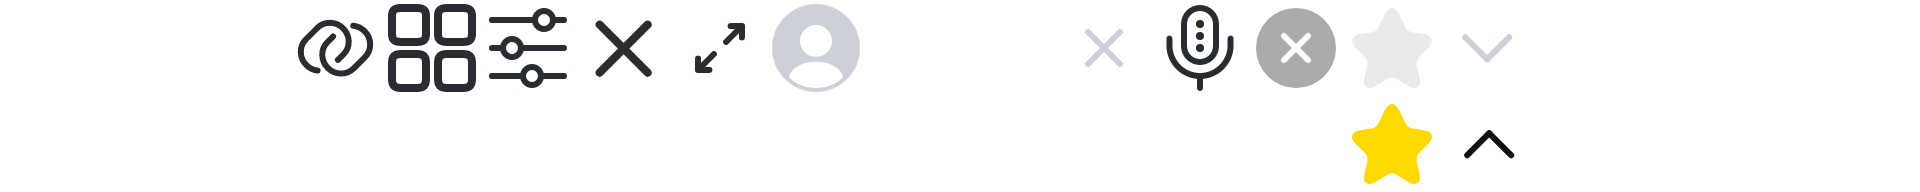
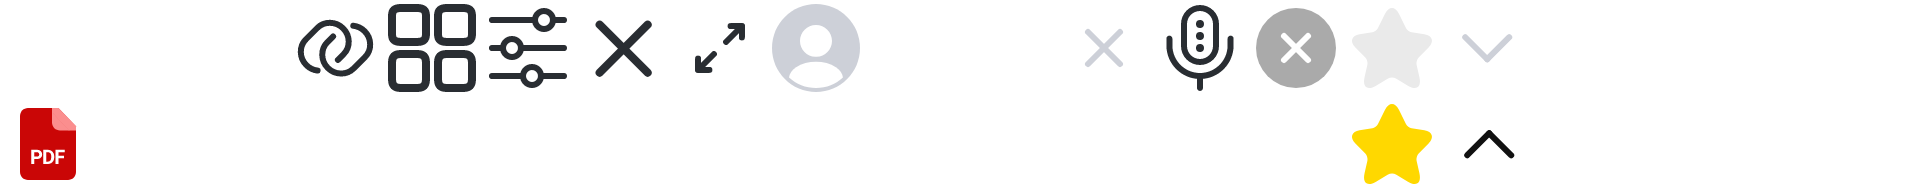
UI-SJN-83-001U 등록

Changed region(s): [[0.0, 0.5625, 0.0625, 0.9375]]

diff --git a/html/home/UI-SJN-83-001U.html b/html/home/UI-SJN-83-001U.html
@@ -1,0 +1,236 @@
+<!DOCTYPE HTML>
+<html lang="ko">
+<head>
+	<meta charset="utf-8" />
+	<script src="../include/head.js"></script>
+</head>
+
+<body>
+<div id="root">
+	<div class="container">
+		<!-- 공통: 서브 헤더 -->
+		<script src="../include/header_sub.js"></script>
+		<!-- //공통: 서브 헤더 -->
+
+		<!-- 본문 -->
+		<main class="contents mypage"> <!-- [내정보 Class] mypage-->
+			<h2 class="visible"><div class="headerClone">개인정보처리방침 안내문</div></h2> <!-- [헤더에 넣어줄 제목] -->
+			
+			<div class="mypageWrap">
+				<div class="explain-default">
+					<div class="approval">
+						<p class="text">세종특별자치시는 개인정보보호법 등 관련 법률상의 개인정보보호 규정을 준수하여 정보주체의 보호 및 권익을 보호하고, 개인정보와 관련하여 이용자의 고층을 신속하고 원활하게 처리할 수 있도록 다음과 같은 개인정보 처리방침을 두고 있습니다. 이 방침은 별도의 설명이 없는 한 세종특별자치시에서 처리하는 모든 개인정보파일에 적용됩니다.</p>
+					</div>
+				</div>
+
+				<ol class="items-term">
+					<li>
+						<h3>제1조. 개인정보의 처리목적, 처리 및 보유기간, 처리항목</h3>
+						<div class="paragraphGroup">
+							<p>세종특별자치시가 ｢개인정보보호법｣ 제32조에 따라 등록․공개하는 개인정보파일의 처리목적 및 보유기간, 처리하는 개인정보 항목의 조회 방법은 다음과 같습니다.</p>
+							<p><a href="#" class="link"><span>개인정보파일 목록검색 바로가기</span></a></p>
+							<p>개인정보보호종합지원포털(http://www.privacy.go.kr) -&gt; 개인정보민원 -&gt; 개인정보 열람등 요구 -&gt; 개인정보파일 목록 검색 -&gt; 기관명에 “세종특별자치시” 입력 -&gt; 검색</p>
+						</div>
+					</li>
+					<li>
+						<h3>제 2조. 개인정보의 제3자 제공</h3>
+						<ol>
+							<li>
+								<p>1. 세종특별자치시는 다음과 같이 개인정보를 목적 외 이용 및 제3자에게 제공하고 있습니다.</p>
+								<a href="#" class="download" download="download"><span>개인정보 목적 외 이용 및 제3자 제공 현황</span></a>
+							</li>
+							<li>
+								2.세종특별자치시는 정보주체의 개인정보를 수집·이용 목적으로 명시한 범위 내에서 처리하며, 다음 각 호의 경우를 제외하고는 정보주체의 사전 동의 없이는 본래의 목적 범위를 초과하여 처리하거나 제3자에게 제공하지 않습니다.
+								<span class="sub">“정보주체”란 처리되는 정보에 의하여 알아볼 수 있는 사람으로서 그 정보의 주체가 되는 사람을 말한다.</span>
+								<ul>
+									<li>정보주체로부터 별도의 동의를 받는 경우</li>
+									<li>법률에 특별한 규정이 있는 경우</li>
+									<li>정보주체 또는 법정대리인이 의사표시를 할 수 없는 상태에 있거나, 주소불명 등으로 사전 동의를 받을 수 없는 경우로서, 명백히 정보주체 또는 제3자의 급박한 생명, 신체, 재산의 이익을 위하여 필요하다고 인정되는 경우</li>
+									<li>통계작성 및 학술연구 등의 목적을 위하여 필요한 경우로서, 특정 개인을 알아 볼 수 없는 형태로 개인정보를 제공하는 경우</li>
+									<li>개인정보를 목적 외의 용도로 이용하거나, 이를 제3자에게 제공하지 아니하면 다른 법률에서 정하는 소관 업무를 수행할 수 없는 경우로서, 보호위원회의 심의·의결을 거친 경우</li>
+									<li>조약, 그 밖의 국제협정의 이행을 위하여 외국정보 또는 국제기구에 제공하기 위하여 필요한 경우</li>
+									<li>범죄의 수사와 공소의 제기 및 유지를 위하여 필요한 경우</li>
+									<li>법원의 재판업무 수행을 위하여 필요한 경우</li>
+									<li>형 및 감호, 보호처분의 집행을 위하여 필요한 경우</li>
+								</ul>
+							</li>
+						</ol>
+					</li>
+					<li>
+						<h3>제3조. 개인정보처리의 위탁</h3>
+						<ol>
+							<li>
+								<p>1. 세종특별자치시는 원활한 개인정보 업무처리를 위하여 다음과 같이 개인정보처리업무를 위탁하고 있습니다.</p>
+								<a href="#" class="download" download="download"><span>개인정보처리 위탁업무 현황</span></a>
+							</li>
+							<li><p>2. 세종특별자치시는 위탁계약 체결 시 개인정보보호법 제26조에 따라 위탁업무 수행 목적 외 개인정보의 처리 금지, 개인정보의 관리적·기술적 보호조치, 재 위탁 제한, 수탁자에 대한 관리·감독, 손해배상 등 책임에 관한 사항을 계약서에 명시하고, 수탁자가 개인정보를 안전하게 처리하는지를 감독하고 있습니다.</p></li>
+						</ol>
+					</li>
+					<li>
+						<h3>제4조. 정보주체의 권리·의무 및 그 행사방법에 관한 사항</h3>
+						<ol>
+							<li>
+								<p>1. 정보주체(만14세 미만인 경우에는 법정대리인을 말함)는 언제든지 다음 각 호의 개인정보보호 관련 권리를 행사할 수 있습니다.</p>
+								<ul>
+									<li>개인정보 열람요구</li>
+									<li>오류 등이 있을 경우 정정 요구</li>
+									<li>삭제요구</li>
+									<li>처리정지 요구</li>
+								</ul>
+							</li>
+							<li><p>2. 제1항에 따른 권리 행사는 개인정보보호법 시행규칙 [별지 제8호 서식]에 따라 작성 후 서면, 전자우편, 모사전송(FAX) 등을 통하여 세종특별자치시(해당부서)로 요구하실 수 있으며, 세종특별자치시에서는 10일 이내에 조치를 통지하겠습니다.</p></li>
+							<li><p>3. 정보주체가 개인정보의 오류 등에 대한 정정 또는 삭제를 요구한 경우에는 정정 또는 삭제를 완료할 때까지 당해 개인정보를 이용하거나 제공하지 않습니다.</p></li>
+							<li><p>4. 제1항에 따른 권리 행사는 정보주체의 법정대리인이나 위임을 받은 자 등 대리인을 통하여 하실 수 있습니다. 이 경우 개인정보보호법 시행규칙 [별지 제11호 서식]에 따른 위임장을 제출하셔야 합니다.</p></li>
+							<li><p>5. 개인정보 열람 및 처리정지 요구는 개인정보보호법 제35조 제5항, 제37조 제2항에 의하여 정보주체의 권리가 제한 될 수 있습니다.</p></li>
+							<li><p>6. 개인정보의 정정 및 삭제 요구는 다른 법령에서 그 개인정보가 수집 대상으로 명시되어 있는 경우에는 그 삭제를 요구할 수 없습니다.</p></li>
+							<li><p>7. 정보주체 권리에 따른 열람의 요구, 정정·삭제의 요구, 처리정지의 요구 시 열람 등 요구를 한 자가 본인이거나 정당한 대리인인지를 확인합니다.</p></li>
+							<li>
+								<p>8. 개인정보 열람, 정정·삭제, 처리정지 청구는 아래와 같은 절차로 처리됩니다.</p>
+								<img src="../../public/image/home/sitemap_img01.png" alt="">
+							</li>
+							<li>
+								<p>9. 개인정보 열람 등 요구방법</p>
+								<span class="sub">개인정보보호 종합지원 포털(www.privacy.go.kr)을 통해 “온라인 신청” 또는 세종특별자치시(해당부서)를 통해 “오프라인 신청”하실 수 있습니다.</span>
+							</li>
+							<li><p>10. 정보주체 권리 행사에 대해 거절 등의 조치에 불복이 있는 경우에는 거절 등의 통지서를 받은 날로부터 30일 이내에 이의신청을 할 수 있으며, 통지서 내의 이의제기방법에 따라 제출하여야 합니다.</p></li>
+						</ol>
+					</li>
+					<li>
+						<h3>제5조. 개인정보의 파기</h3>
+						<div class="paragraphGroup">
+							<p>세종특별자치시는 원칙적으로 개인정보의 보유기간이 경과했거나 처리목적이 달성된 경우에는 지체 없이 해당 개인정보를 파기합니다. 다만, 다른 법령에 따라 보존하여야 하는 경우에는 그러하지 않을 수 있습니다. 파기의 절차, 기한 및 방법은 다음과 같습니다.</p>
+						</div>
+						<ol>
+							<li><p>1. 파기절차 : 보유기간이 경과했거나 처리목적이 달성된 후 내부방침 및 관련 법령에 따라 파기합니다.</p></li>
+							<li><p>2. 파기기한 : 개인정보의 보유기간이 경과된 경우 보유기간의 종료일로부터 5일 이내에, 개인정보의 처리 목적 달성 등 그 개인정보가 불필요하게 되었을 때에는 개인정보의 처리가 불필요한 것으로 인정되는 날로부터 5일 이내에 그 개인정보를 파기합니다.</p></li>
+							<li>
+								<p>3. 파기방법 : 세종특별자치시에서 처리하는 개인정보를 파기할 때에는 다음의 방법으로 파기합니다.</p>
+								<ul>
+									<li>전자적 파일 형태인 경우 : 복원이 불가능한 방법으로 영구 삭제</li>
+									<li>전자적 파일의 형태 외의 기록물, 인쇄물, 서면, 그 밖의 기록매체인 경우 : 파쇄 또는 소각</li>
+								</ul>
+							</li>
+						</ol>
+					</li>
+					<li>
+						<h3>제6조. 개인정보의 안전성 확보조치</h3>
+						<div class="paragraphGroup">
+							<p>세종특별자치시는 개인정보의 안전성 확보를 위해 다음과 같은 조치를 취하고 있습니다.</p>
+						</div>
+						<ol>
+							<li>
+								<p>1. 개인정보 취급자의 최소화 및 교육</p>
+								<span class="sub">개인정보 취급자는 필요한 인원에 한하여 지정·관리하고 있으며, 취급자를 대상으로 안전한 관리를 위한 교육을 실시하고 있습니다.</span>
+							</li>
+							<li>
+								<p>2. 개인정보에 대한 접근 제한</p>
+								<span class="sub">개인정보를 처리하는 개인정보처리시스템에 대한 접근통제를 위한 필요한 조치를 하고 있으며, 침입차단시스템을 이용하여 외부로부터의 무단접근을 통제하고 있습니다.</span>
+							</li>
+							<li>
+								<p>3. 접속기록의 보관</p>
+								<span class="sub">개인정보를 처리하는 개인정보처리시스템에 접속한 기록을 최소 6개월 이상 보관·관리하고 있습니다.</span>
+							</li>
+							<li>
+								<p>4. 개인정보의 암호화</p>
+								<span class="sub">개인정보는 암호화 등을 통해 안전하게 저장 및 관리되고 있습니다. 또한 중요한 데이터는 저장 및 전송 시 암호화하여 사용하는 등의 별도 보안기능을 사용하고 있습니다.</span>
+							</li>
+							<li>
+								<p>5. 보안장비 설치 및 주기적 점검·갱신</p>
+								<span class="sub">해킹이나 컴퓨터 바이러스 등에 의한 개인정보 유출 및 훼손을 막기 위하여 보안장비를 설치하고 주기적으로 갱신·점검하고 있습니다.</span>
+							</li>
+							<li>
+								<p>6. 비인가자에 대한 출입 통제</p>
+								<span class="sub">개인정보를 보관하고 있는 개인정보처리시스템의 물리적 보관 장소를 별도로 두고 이에 대해 출입통제 절차를 수립·운영하고 있습니다.</span>
+							</li>
+						</ol>
+					</li>
+					<li>
+						<h3>제7조. 개인정보 자동 수집 장치의 설치·운영 및 거부에 관한 사항</h3>
+						<ol>
+							<li><p>1. 세종특별자치시는 이용자에게 개별적인 맞춤서비스를 제공하기 위해 이용정보를 저장하고 수시로 불러오는 ‘쿠기(cookie)’를 사용합니다.</p></li>
+							<li>
+								<p>2. 쿠키는 웹사이트를 운영하는데 이용되는 서버(http)가 이용자의 컴퓨터 브라우저에게 보내는 소량의 정보이며, 이용자 컴퓨터(PC)의 하드디스크에 저장되기도 합니다.</p>
+								<ul>
+									<li>(쿠키의 사용목적) 이용자가 방문한 각 서비스와 웹사이트들에 대한 방문 및 이용형태, 인기검색어, 보안접속 여부 등을 파악하여 이용자에게 최적화된 정보를 제공하기 위해 사용됩니다.</li>
+									<li>(쿠키의 설치∙운영 및 거부) 이용하는 컴퓨터(PC)의 웹 브라우저 상단에 도구>인터넷 옵션>개인정보 메뉴의 옵션 설정을 통해 쿠키 저장을 거부할 수 있습니다.</li>
+									<li>쿠키 저장을 거부할 경우 맞춤형서비스 이용에 어려움이 발생할 수 있습니다.</li>
+								</ul>
+							</li>
+						</ol>
+					</li>
+					<li>
+						<h3>제8조. 권익침해 구제방법</h3>
+						<ol>
+							<li>
+								<p>1. 정보주체는 세종특별자치시 자체적인 개인정보 불만처리, 피해구제 결과에 만족하지 못하거나, 보다 자세한 도움이 필요할 경우, 아래의 기관에 대해 개인 정보 침해에 대한 피해구제, 상담 등을 문의하실 수 있습니다.</p>
+								<ul>
+									<li>개인정보 침해신고센터(한국인터넷진흥원 운영) : (국번없이) 118 (privacy.kisa.or.kr)</li>
+									<li>개인정보 분쟁조정위원회(국번없이) : 1833-6972 (www.kopico.go.kr)</li>
+									<li>대검찰청 사이버범죄수사단 : 02-3480-3573 (www.spo.go.kr)</li>
+									<li>경찰청 사이버안전국 : (국번없이) 182 (cyberbureau.police.go.kr)</li>
+								</ul>
+							</li>
+							<li>
+								<p>2. 또한, 개인정보의 열람, 정정·삭제, 처리정지 등에 대한 정보주체자의 요구에 대하여 공공기관의 장이 행한 처분 또는 부작위로 인하여 권리 또는 이익을 침해 받은 자는 행정심판법이 정하는 바에 따라 행정심판을 청구할 수 있습니다.</p>
+								<ul>
+									<li>중앙행정심판위원회: (국번없이) 110 (www.simpan.go.kr)</li>
+								</ul>
+							</li>
+						</ol>
+					</li>
+					<li>
+						<h3>제9조. 개인정보보호책임자</h3>
+						<div class="paragraphGroup">
+							<p>세종특별자치시는 개인정보 처리에 관한 업무를 총괄해서 책임지고, 개인정보 처리와 관련한 정보주체의 불만처리 및 피해구제 등을 위하여 아래와 같이 개인정보보호책임자를 지정하고 있습니다.</p>
+						</div>
+						<ol>
+							<li>
+								<p>1. 개인정보보호책임자</p>
+								<ul>
+									<li>성명 : 이용석</li>
+									<li>직책 : 기획조정실장</li>
+									<li>직급 : 고위공무원</li>
+									<li>연락처 : 044-300-2100</li>
+								</ul>
+							</li>
+							<li>
+								<p>2. 개인정보 보호 담당부서</p>
+								<ul>
+									<li>부서명 : 정보통계담당관</li>
+									<li>담당자 : 안윤기</li>
+									<li>연락처 : 044-300-2445</li>
+									<li>메 일 : ahn6258@korea.kr</li>
+									<li>팩 스 : 044-300-2439</li>
+								</ul>
+							</li>
+						</ol>
+					</li>
+					<li>
+						<h3>제10조. 개인정보 처리방침 변경</h3>
+						<div class="paragraphGroup">
+							<p>이 개인정보 처리방침은 2019. 2. 15.부터 적용됩니다.</p>
+							<p>이전의 개인정보 처리방침은 아래에서 확인하실 수 있습니다.</p>
+						</div>
+						<ul class="blackLink">
+							<li><a href="#" target="_blank">2012. 7. 1 ~ 2014. 1.31.적용지침</a></li>
+							<li><a href="#" target="_blank">2014. 2. 1 ~ 2014.11.17.적용지침</a></li>
+							<li><a href="#" target="_blank">2014.11.18 ~ 2015. 2.10.적용지침</a></li>
+							<li><a href="#" target="_blank">2015. 2.11 ~ 2016. 2.21.적용지침</a></li>
+							<li><a href="#" target="_blank">2016. 2.22 ~ 2017. 2.21.적용지침</a></li>
+							<li><a href="#" target="_blank">2017. 2.22 ~ 2017. 4.12.적용지침</a></li>
+							<li><a href="#" target="_blank">2017. 4.13 ~ 2017. 7.26.적용지침</a></li>
+							<li><a href="#" target="_blank">2017. 7.27 ~ 2018. 1.28.적용지침</a></li>
+							<li><a href="#" target="_blank">2018. 1.29 ~ 2018. 5.30.적용지침</a></li>
+							<li><a href="#" target="_blank">2018. 5.31 ~ 2018. 8.26.적용지침</a></li>
+							<li><a href="#" target="_blank">2018. 8.27 ~ 2018. 12.31.적용지침</a></li>
+							<li><a href="#" target="_blank">2019. 1. 0 ~ 2019. 2.14.적용지침</a></li>
+						</ul>
+					</li>
+				</ol>
+			</div>
+		</main>
+		<!-- //본문 -->
+	</div>
+</div>
+</body>
+</html>

diff --git a/public/styles/gbSin.css b/public/styles/gbSin.css
@@ -130,6 +130,28 @@
 /* 내정보
 **********************************************/
 
+/* items- 모음 */
+.items-term { padding: 4rem 2rem;}
+.items-term >li h3 { font-size: 1.6rem; line-height: 2.4rem;}
+.items-term >li ~ li { margin-top: 4rem;}
+.items-term >li .paragraphGroup p { margin-top: 2rem; color: #333; line-height: 2.3rem;}
+.items-term >li .link { display: inline-flex; align-items: center; justify-content: center; height: 4rem; margin-top: 2rem; padding: 0 1.6rem; font-size: 1.4rem; color: #fff; background-color: #6684EA;}
+.items-term >li .link span { display: inline-block; position: relative; padding-right: 2rem;}
+.items-term >li .link span::after { content: ''; position: absolute; right: 0; top: 0.1rem; width: 2rem; height: 2rem; background: url(../image/common/split_40.png) no-repeat -28rem 0/40rem 4rem;}
+.items-term >li .download { display: inline-flex; align-items: center; justify-content: center; height: 4rem; margin-top: 2rem; padding: 0 1.6rem; font-size: 1.4rem; color: #555; border: 1px solid #ddd;}
+.items-term >li .download span { display: inline-block; position: relative; padding-left: 2.8rem;}
+.items-term >li .download span::after { content: ''; position: absolute; left: 0; top: 0; width: 2.4rem; height: 2.4rem; background: url(../image/common/split_48.png) no-repeat 0 -2.4rem/48rem 4.8rem;}
+.items-term >li .sub { display: block; margin-top: 1rem;}
+.items-term >li img { max-width: 100%; height: auto;}
+.items-term >li .blackLink li { margin-top: 0.8rem;}
+.items-term >li .blackLink li a { display: inline-block; position: relative; padding-left: 1.6rem; color: #333; line-height: 2.3rem;}
+.items-term >li .blackLink li a::after { content: ''; position: absolute; left: 0.6rem; top: 1rem; width: 0.4rem; height: 0.4rem; background-color: #292D32; border-radius: 50%;}
+.items-term >li li { margin-top: 2rem; line-height: 2.3rem;}
+.items-term >li li li { position: relative; margin-top: 0.8rem; padding-left: 1.6rem;}
+.items-term >li li li:first-child { margin-top: 2rem;}
+.items-term >li li li::after { content: ''; position: absolute; left: 0.6rem; top: 0.8rem; width: 0.4rem; height: 0.4rem; background-color: #292D32; border-radius: 50%;}
+
+
 /* 잠금설정 - UI-SJN-80-003 */
 .mypage .mypageArea { padding: 0 2rem 4rem;}
 .mypage .mypageArea .section ~ .section { margin-top: 1.6rem;}
@@ -158,9 +180,10 @@
 .mypage .mypageArea .section .securityList li input:checked + label { z-index: 1; border-color: #6684EA;}
 .mypage .mypageArea .section .securityList li ~ li label { margin-left: -0.1rem;}
 
-
-
-
+/* 개인정보처리방침 - UI-SJN-80-010U */
+.mypage .explain-default { padding: 2.4rem 2rem; background-color: #F4F5F7;}
+.mypage .explain-default .text { line-height: 2.3rem;}
+.mypage .approval { padding: 2.4rem 1.6rem; background-color: #fff;}
 
 
 

diff --git a/public/styles/globals.css b/public/styles/globals.css
@@ -166,6 +166,8 @@ table td { vertical-align: middle;}
 .button.blue { color: #fff; background-color: #6684EA;}
 .button.whiteLine { color: #555; border: 1px solid #ddd;}
 
+
+
 /* 라인 중단점 */
 .line-default { border-top: 0.6rem solid #F4F5F7;}
 
@@ -176,8 +178,8 @@ table td { vertical-align: middle;}
 .switch input { position: absolute; margin: 0.6rem 0 0 1.6rem;}
 .switch label { position: relative; padding: 0.6rem 0 0.6rem 5.6rem; cursor: pointer;}
 .switch label::before { content: ""; position: absolute; display: block; left: 0; top: 0; width: 5.6rem; height: 3.2rem; border-radius: 1.6rem; background-color: #EAEDF2; transition: all 0.3s;}
-.switch label::after { content: ""; position: absolute; display: block; left: 0.4rem; top: 0.4rem; width: 2.4rem; height: 2.4rem; border-radius: 1.6rem; background-color: #fff; box-shadow: 0 0.1rem 0.3rem rgba(0, 0, 0, 0.3); transition: margin-left 0.3s;}
-.switch input:checked + label:after { margin-left: 2.3rem;}
+.switch label::after { content: ""; position: absolute; display: block; left: 0.6rem; top: 0.4rem; width: 2.4rem; height: 2.4rem; border-radius: 1.6rem; background-color: #fff; box-shadow: 0 0.1rem 0.3rem rgba(0, 0, 0, 0.3); transition: margin-left 0.3s;}
+.switch input:checked + label:after { margin-left: 2.1rem;}
 .switch input:checked + label:before { background-color: #6684EA;}
 
 /* 라디오박스 */

diff --git a/html/guide/ia.html b/html/guide/ia.html
@@ -797,7 +797,7 @@
 						<td></td>
 						<td>이용약관및 정책</td>
 						<td>개인정보처리방침 </td>
-						<td><a href="../../html/home/UI-SJN-80-010U.html" class="active" target="_blank">UI-SJN-80-010U</a></td>
+						<td><a href="../../html/home/UI-SJN-83-001U.html" class="active" target="_blank">UI-SJN-83-001U</a></td>
 						<td class="tac active">D</td>
 						<td class="tac"></td>
 					</tr>

diff --git a/README.md b/README.md
@@ -3,6 +3,9 @@
 확인 URL: https://jeounggyy.github.io/sejong/html/guide/ia.html
 
 
+### 01-18
+- UI-SJN-83-001U 등록
+
 ### 01-17
 - UI-SJN-08-001P 수정
 - UI-SJN-06-001L 수정 - Page -> Layer로 변경
